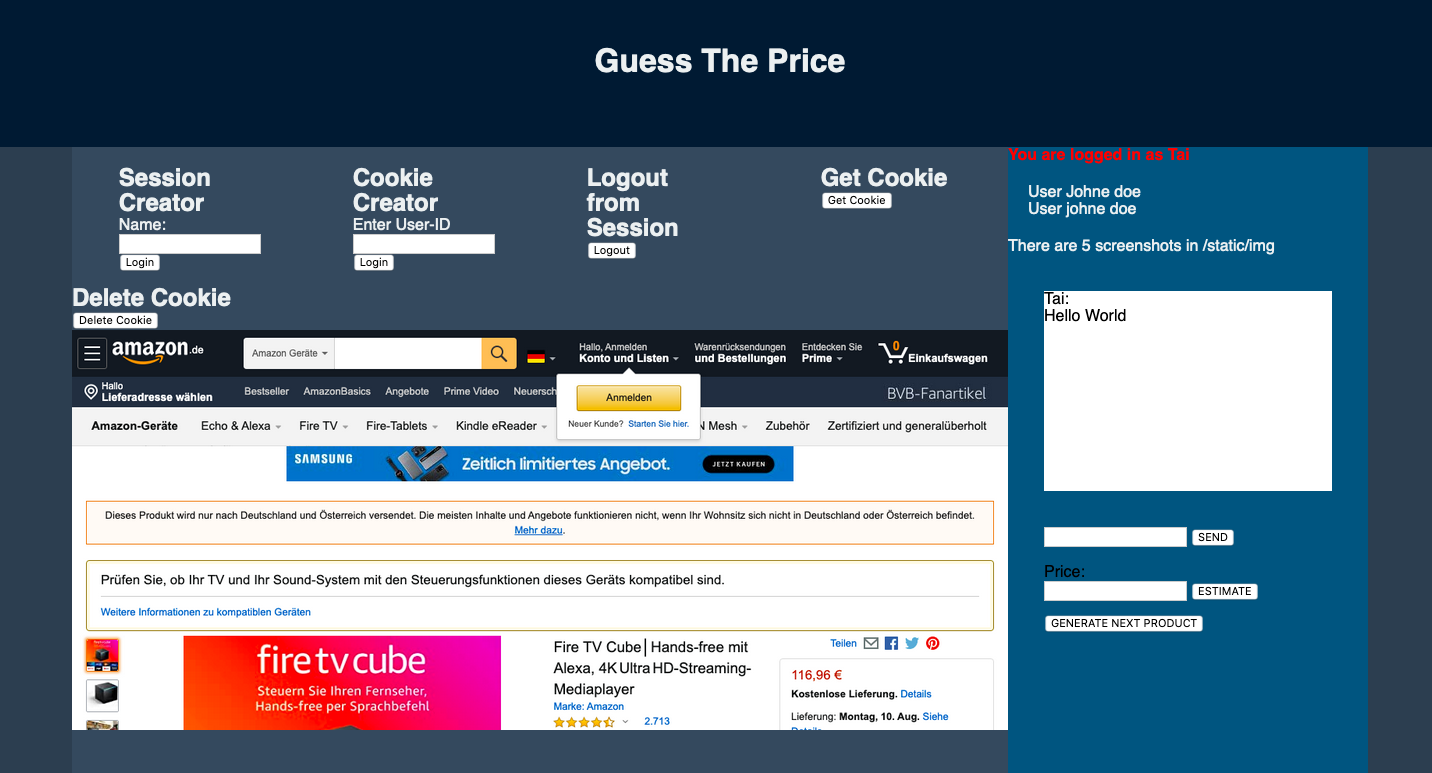
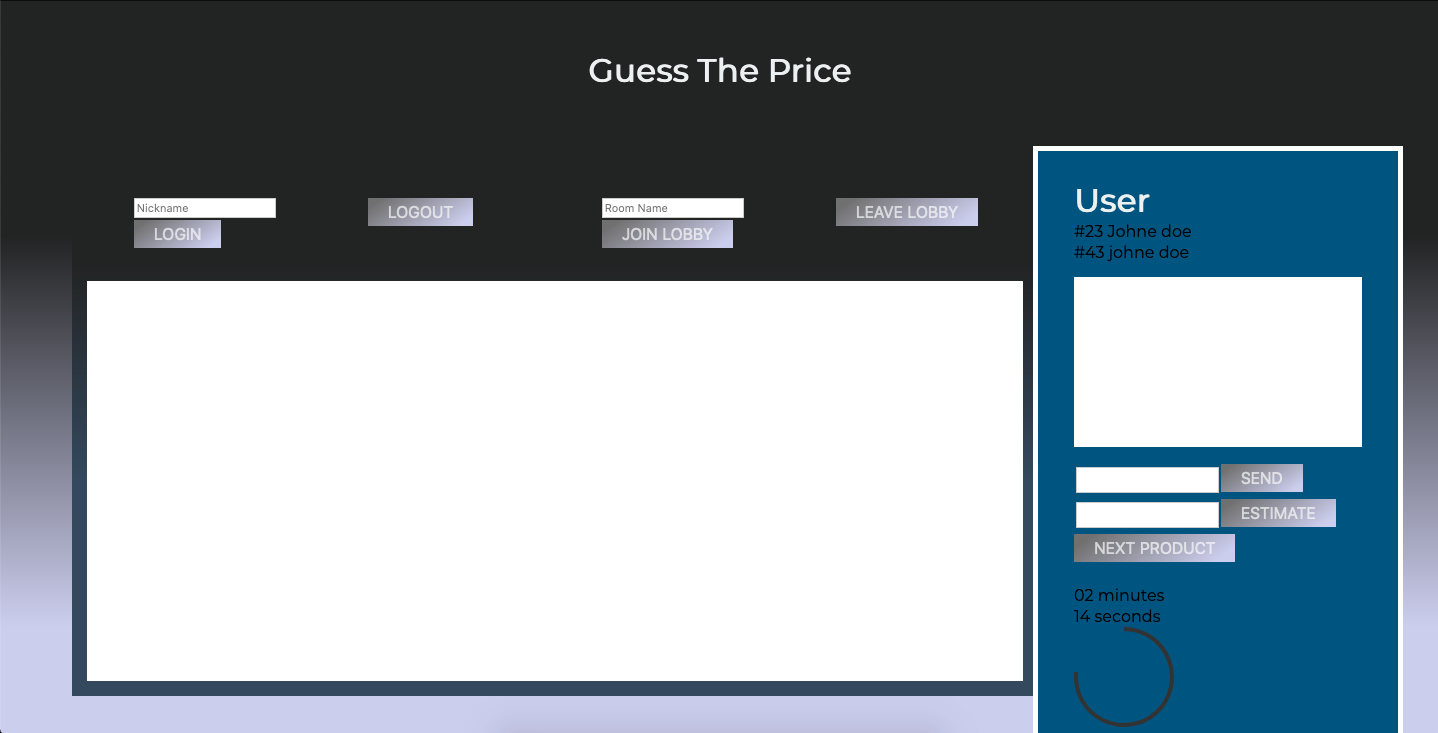
new frontend style

diff --git a/frontend/src/App.js b/frontend/src/App.js
@@ -79,24 +79,24 @@ render(){
     <h1>Guess The Price</h1>
     </div>
     <div className="left-section">
-    <div class="four-column">
+    <div className="four-column">
     <form onSubmit={this.handleSubmit} id="login_session" method="POST">
     <input type="text" name="nm" onChange={this.handleChange} placeholder="Nickname"/>
     <input className="button" onClick={this.sendMessage} type="submit" value="Login" />
     </form>
     </div>
-    <div class="four-column">
+    <div className="four-column">
     <form action = "/logout" method = "POST">
     <input className="button" type="submit" value="Logout"/>
     </form>
     </div>
-    <div class="four-column">
+    <div className="four-column">
     <form onSubmit={this.handleSubmit} id="join_lobby" method="POST">
     <input type="text" placeholder="Room Name"/>
     <input className="button" onClick={this.sendMessage} type="submit" value="Join lobby" />
     </form>
     </div>
-    <div class="four-column">
+    <div className="four-column">
     <form onSubmit={this.handleSubmit} id="leave_lobby" method="POST">
     <input className="button" onClick={this.sendMessage} type="submit" value="Leave lobby" />
     </form>

diff --git a/frontend/src/App.css b/frontend/src/App.css
@@ -1,11 +1,19 @@
+.header {
+  background: #222323;
+  width: 100%;
+  height: 100px;
+  padding-top: 50px;
+  text-align: center;
+}
+
 .left-section{
   width: 65%;
   height: 100%;
   margin-left: 5%;
   margin-right:0;
-  background: #34495e;
+  background: linear-gradient(#222323  20%, #34495e 60%);
   float: left;
-  padding: 40px 15px 0 15px;
+  padding: 30px 15px 15px 15px;
 }
 .right-section{
   width: 25%;
@@ -14,7 +22,8 @@
   height: 100%;
   background: #005580;
   float: left;
-  padding-top: 40px;
+  padding-top: 30px;
+  outline: 5px solid white;
 }
 
 .flash{color: red}
@@ -82,14 +91,6 @@
   left: 10%;
   position: absolute;
   top: -10px;
-}
-
-.header {
-  background: #001a33;
-  width: 100%;
-  height: 100px;
-  padding-top: 50px;
-  text-align: center;
 }
 
 .button{

diff --git a/frontend/src/Components/chat/chat.js b/frontend/src/Components/chat/chat.js
@@ -1,8 +1,14 @@
 import React, {Component} from 'react';
-
+import io from "socket.io-client";
 
 
 class Chat extends Component {
+
+    sendMessage(e){
+  var x = document.getElementById("btn1").name;
+  console.log("clicked");
+
+  }
 
 
 
@@ -14,13 +20,15 @@ render(){
       <p></p>
       <ul id="messages"></ul>
     </div>
-    <input type="text" id="myMessage"></input>
-    <input className="button" type="submit" id="sendButton" value="SEND"/>
+    <input type="text" id="myMessage"/>
+    <input className="button" onClick={this.sendMessage} type="submit" id="sendButton" value="SEND"/>
     </div>
   );
 
 }
 
 }
+
+
 
 export default Chat;

diff --git a/frontend/src/index.css b/frontend/src/index.css
@@ -1,3 +1,6 @@
+
+@import url('https://fonts.googleapis.com/css2?family=Montserrat');
+
 *{
   margin: 0;
   padding: 0
@@ -6,8 +9,8 @@
 body{
   margin: 0;
   padding: 0;
-  font-family: Sans-serif;
-  background: #2c3e50;
+  font-family: Montserrat, Sans-serif;
+  background: linear-gradient(#222323  30%, #CCCEEE 80%);
 }
 
 img{max-width:100%; height:auto}

diff --git a/README.md b/README.md
@@ -1,2 +1,5 @@
 ## Frontend Update:
 ![frontend.png](frontend.png "frontend.png")
+
+old frontend
+![frontend.png](frontend.png "frontend.png")
